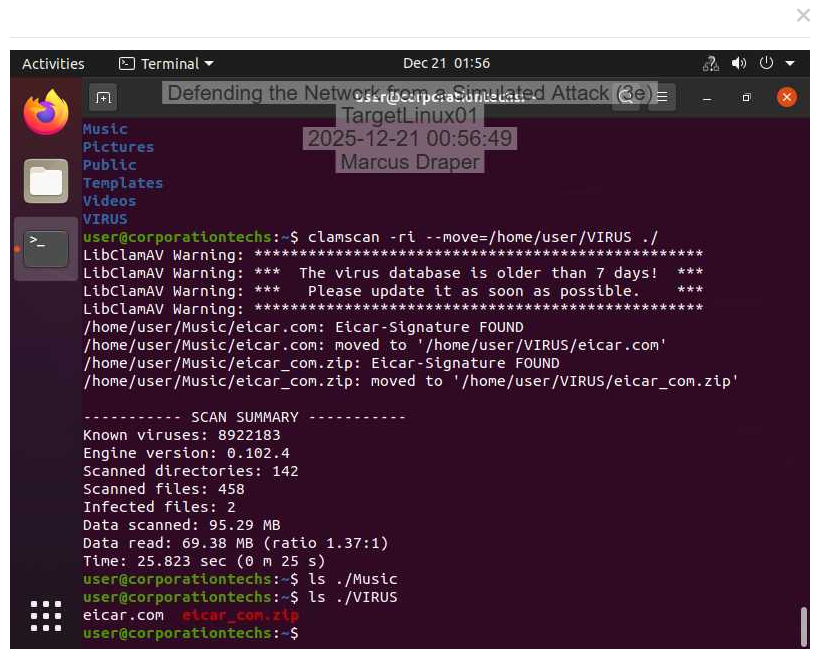
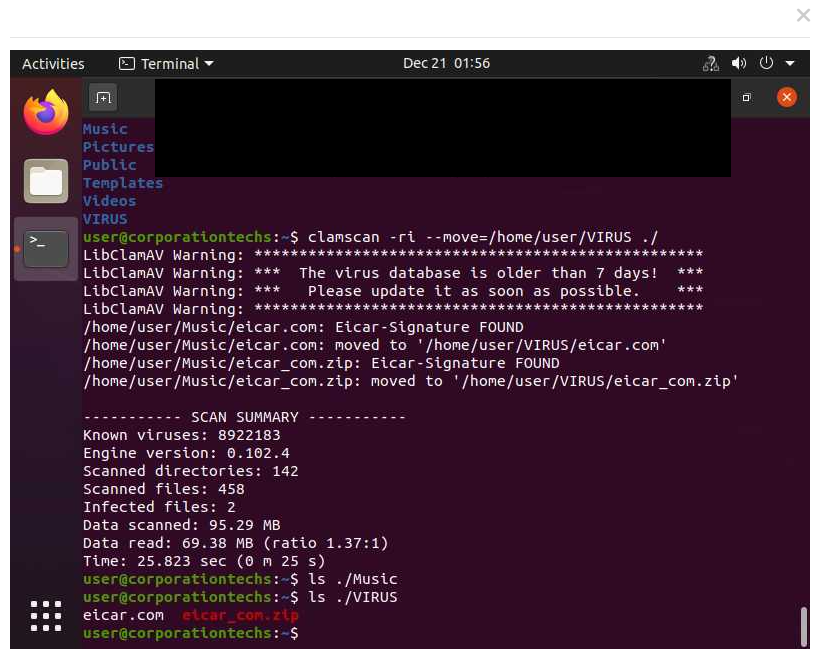
Add files via upload

Changed region(s): [[0.1845, 0.1233, 0.9225, 0.2773]]

diff --git a/README.md b/README.md
@@ -1,6 +1,5 @@
 # Network Defense and Vulnerability Remediation Lab
 
-**Author:** Marcus Draper  
 **Original exercise:** Defending the Network from a Simulated Attack (3e), Network Security, Firewalls, and VPNs — Lab 02  
 **Environment:** Guided educational lab using simulated systems.
 
@@ -49,4 +48,4 @@ The retest supports remediation of the tested exploit path in this lab. It does 
 
 ## Scope and limitations
 
-This was a guided academic exercise, not a production engagement or independently designed penetration test. EICAR files are antivirus test artifacts. The Windows scan covers only the eight scanned files. The firewall screenshot does not include a subsequent connectivity test. Original lab screenshots retain their visible timestamps and attribution.
+This was a guided academic exercise, not a production engagement or independently designed penetration test. EICAR files are antivirus test artifacts. The Windows scan covers only the eight scanned files. The firewall screenshot does not include a subsequent connectivity test. Screenshot watermarks containing personal attribution and lab-session details have been redacted.
